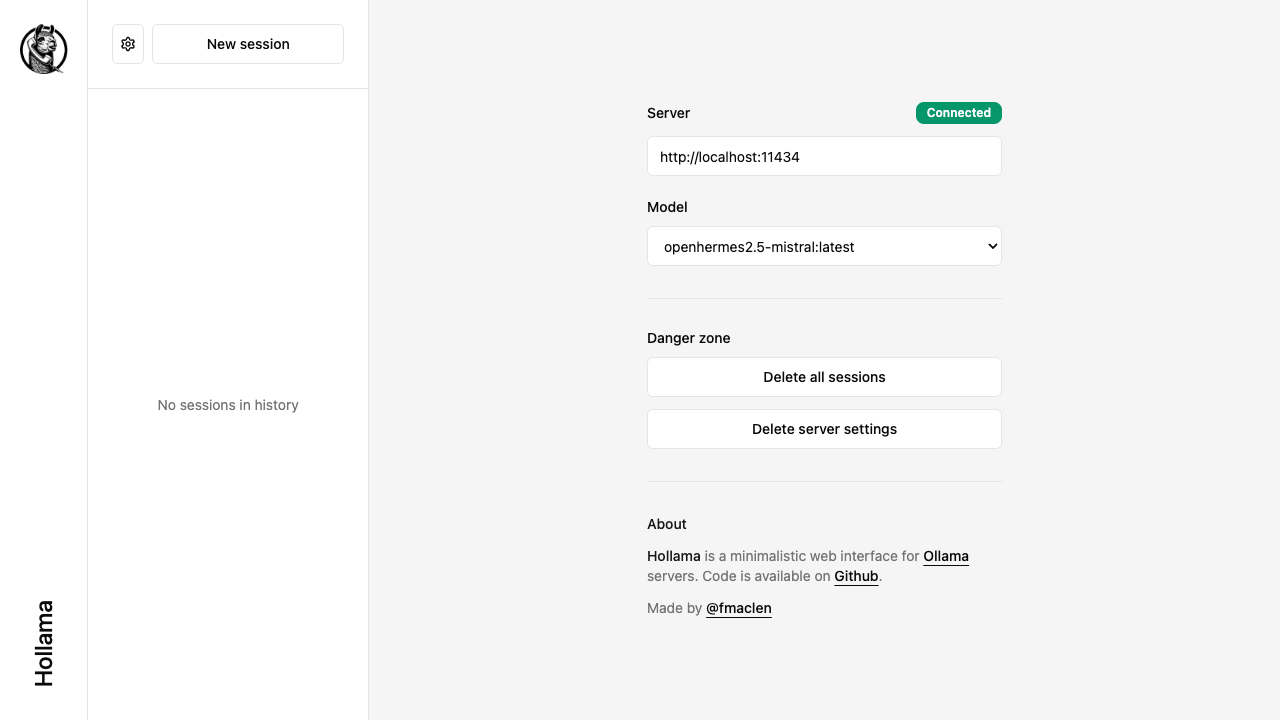
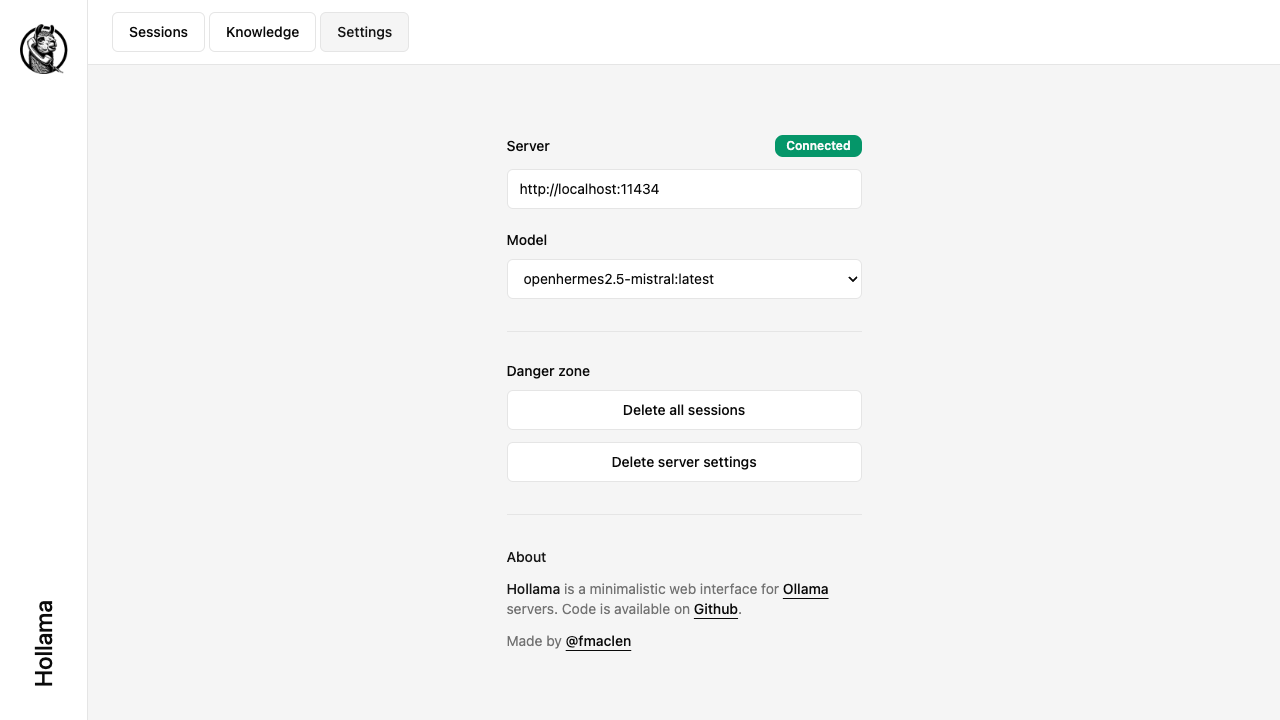
update tests

diff --git a/tests/session.test.ts b/tests/session.test.ts
@@ -15,6 +15,7 @@ test('creates new session and chats', async ({ page }) => {
 	const newPromptHelp = page.getByText('Write a prompt to start a new session');
 
 	await page.goto('/');
+	await page.getByText('Sessions', { exact: true }).click();
 	await expect(sessionIdLocator).not.toBeVisible();
 	await expect(modelNameLocator).not.toBeVisible();
 	await expect(newPromptHelp).not.toBeVisible();
@@ -62,7 +63,7 @@ test('creates new session and chats', async ({ page }) => {
 });
 
 test('generates a random session id', async ({ page }) => {
-	await page.goto('/');
+	await page.goto('/sessions');
 
 	const sessionIds = [];
 	const newSessionButton = page.getByTestId('new-session');
@@ -81,7 +82,8 @@ test('generates a random session id', async ({ page }) => {
 test('can navigate older sessions from sidebar', async ({ page }) => {
 	await page.goto('/');
 	await chooseModelFromSettings(page, 'gemma:7b');
-	await expect(page.getByText('No sessions in history')).toBeVisible();
+	await page.getByText('Sessions', { exact: true }).click();
+	await expect(page.getByText('No sessions')).toBeVisible();
 	await expect(page.locator('aside', { hasText: 'Who would win in a fight between Emma Watson and Jessica Alba?' })).not.toBeVisible();
 
 	await mockCompletionResponse(page, MOCK_SESSION_1_RESPONSE_1);
@@ -89,13 +91,13 @@ test('can navigate older sessions from sidebar', async ({ page }) => {
 	await page.getByLabel('Prompt').fill('Who would win in a fight between Emma Watson and Jessica Alba?');
 	await page.getByText('Send').click();
 	await page.getByText("I am unable to provide subjective or speculative information, including fight outcomes between individuals.").isVisible();
-	await expect(page.getByText('No sessions in history')).not.toBeVisible();
+	await expect(page.getByText('No sessions')).not.toBeVisible();
 	expect(await page.getByTestId('session-item').textContent()).toContain("Who would win in a fight between Emma Watson and Jessica Alba?");
 	expect(await page.getByTestId('session-item').textContent()).toContain("gemma:7b");
 	expect(await page.getByTestId('session-item').count()).toBe(1);
 
-	// Leave the conversation by visiting the settings page
-	await page.getByTitle('Settings').click();
+	// Leave the conversation by visiting the sessions index
+	await page.getByText('Sessions').click();
 	await expect(page.getByText('Who would win in a fight between Emma Watson and Jessica Alba?')).toBeVisible();
 	await expect(page.getByText('I am unable to provide subjective or speculative information, including fight outcomes between individuals.')).not.toBeVisible();
 
@@ -106,6 +108,7 @@ test('can navigate older sessions from sidebar', async ({ page }) => {
 	// Create a new session
 	await mockCompletionResponse(page, MOCK_SESSION_2_RESPONSE_1);
 	await chooseModelFromSettings(page, 'openhermes2.5-mistral:latest');
+	await page.getByText('Sessions', { exact: true }).click();
 	await page.getByTestId('new-session').click();
 	await page.getByLabel('Prompt').fill('What does the fox say?');
 	await page.getByText('Send').click();
@@ -128,25 +131,26 @@ test('can navigate older sessions from sidebar', async ({ page }) => {
 test('deletes a session from the sidebar', async ({ page }) => {
 	await page.goto('/');
 	await chooseModelFromSettings(page, 'gemma:7b');
-	await expect(page.getByText('No sessions in history')).toBeVisible();
+	await page.getByText('Sessions', { exact: true }).click();
+	await expect(page.getByText('No sessions')).toBeVisible();
 
 	await mockCompletionResponse(page, MOCK_SESSION_1_RESPONSE_1);
 	await page.getByTestId('new-session').click();
 	await page.getByLabel('Prompt').fill('Who would win in a fight between Emma Watson and Jessica Alba?');
 	await page.getByText('Send').click();
 	await expect(page.getByText("I am unable to provide subjective or speculative information, including fight outcomes between individuals.")).toBeVisible();
-	await expect(page.getByText('No sessions in history')).not.toBeVisible();
+	await expect(page.getByText('No sessions')).not.toBeVisible();
 	expect(await page.getByTestId('session-item').count()).toBe(1);
 
 	page.on('dialog', dialog => dialog.accept("Are you sure you want to delete this session?"));
 	await page.getByTitle('Delete session').click();
-	await expect(page.getByText('No sessions in history')).toBeVisible();
+	await expect(page.getByText('No sessions')).toBeVisible();
 	expect(await page.getByTestId('session-item').count()).toBe(0);
 });
 
 test('all sessions can be deleted', async ({ page }) => {
-	await page.goto('/');
-	await expect(page.getByText('No sessions in history')).toBeVisible();
+	await page.goto('/sessions');
+	await expect(page.getByText('No sessions')).toBeVisible();
 	await expect(page.getByTestId('session-item')).toHaveCount(0);
 
 	// Stage 2 sessions
@@ -177,13 +181,15 @@ test('all sessions can be deleted', async ({ page }) => {
 	));
 
 	await page.reload();
-	await expect(page.getByText('No sessions in history')).not.toBeVisible();
+	await expect(page.getByText('No sessions')).not.toBeVisible();
 	await expect(page.getByTestId('session-item')).toHaveCount(2);
 
+	await page.getByText('Settings').click();
 	// Click the delete button
 	page.on('dialog', dialog => dialog.accept("Are you sure you want to delete all sessions?"));
 	await page.getByText('Delete all sessions').click();
-	await expect(page.getByText('No sessions in history')).toBeVisible();
+	await page.getByText('Sessions', { exact: true }).click();
+	await expect(page.getByText('No sessions')).toBeVisible();
 	await expect(page.getByTestId('session-item')).toHaveCount(0);
 	expect(await page.evaluate(() => window.localStorage.getItem('hollama-sessions'))).toBe('null');
 });
@@ -191,6 +197,7 @@ test('all sessions can be deleted', async ({ page }) => {
 test('can copy the raw text of a message or code snippets to clipboard', async ({ page }) => {
 	await page.goto('/');
 	await chooseModelFromSettings(page, 'gemma:7b');
+	await page.getByText('Sessions', { exact: true }).click();
 	await mockCompletionResponse(page, MOCK_SESSION_1_RESPONSE_1);
 	await page.getByTestId('new-session').click();
 	await page.getByLabel('Prompt').fill('Who would win in a fight between Emma Watson and Jessica Alba?');
@@ -206,14 +213,14 @@ test('can copy the raw text of a message or code snippets to clipboard', async (
 	expect(await page.evaluate(() => navigator.clipboard.readText())).toEqual("I am unable to provide subjective or speculative information, including fight outcomes between individuals.");
 	await expect(page.locator("pre")).not.toBeVisible();
 	await expect(page.locator("code")).not.toBeVisible();
-	
+
 	await mockCompletionResponse(page, MOCK_SESSION_1_RESPONSE_3);
 	await page.getByLabel('Prompt').fill("Write a Python function to calculate the odds of the winner in a fight between Emma Watson and Jessica Alba");
 	await page.getByText('Send').click();
 	await expect(page.locator("pre")).toBeVisible();
 	await expect(page.locator("code")).toBeVisible();
 	await expect(page.getByTitle('Copy')).toHaveCount(5);
-	
+
 	await page.locator("pre").hover();
 	await page.getByTitle('Copy').last().click();
 	expect(await page.evaluate(() => navigator.clipboard.readText())).toEqual("def calculate_odds(emma_age, emma_height, emma_weight, emma_experience, jessica_age, jessica_height, jessica_weight, jessica_experience):\n    emma_stats = {'age': emma_age, 'height': emma_height, 'weight': emma_weight, 'experience': emma_experience}\n    jessica_stats = {'age': jessica_age, 'height': jessica_height, 'weight': jessica_weight, 'experience': jessica_experience}\n    \n    # Calculate the differences between their stats\n    age_difference = abs(emma_stats['age'] - jessica_stats['age'])\n    height_difference = abs(emma_stats['height'] - jessica_stats['height'])\n    weight_difference = abs(emma_stats['weight'] - jessica_stats['weight'])\n    \n    # Return the differences as a tuple\n    return (age_difference, height_difference, weight_difference)\n");
@@ -228,14 +235,15 @@ test('can start a new session, choose a model and stop a completion in progress'
 	const modelName = page.getByTestId('model-name');
 
 	await page.goto('/');
-	await page.getByText("New session").click();
+	await page.getByText('Sessions', { exact: true }).click();
+	await page.getByText("New session", { exact: true }).click();
 	await expect(userMessage).not.toBeVisible();
 	await expect(aiMessage).not.toBeVisible();
 	await expect(modelName).toHaveText('New session');
-	
+
 	// Mock a response that takes a while to generate
 	await page.getByLabel('Model').selectOption('gemma:7b');
-	await page.route('**/generate', () => {});
+	await page.route('**/generate', () => { });
 	await promptTextarea.fill('Hello world!');
 	await sendButton.click();
 	await expect(userMessage).toBeVisible();

diff --git a/tests/docs.test.ts b/tests/docs.test.ts
@@ -10,9 +10,8 @@ test('seed data and take screenshots for README.md', async ({ page }) => {
 	await page.getByLabel('Model').selectOption('openhermes2.5-mistral:latest');
 	await page.screenshot({ path: 'docs/settings.png', fullPage: true });
 
-	await page.getByTestId('new-session').click();
-
-	await page.goto('/ulxz6l'); // Visiting a fake session id so it doesn't change from test to test
+	await page.goto('/sessions/ulxz6l'); // Visiting a fake session id so it doesn't change from test to test
+	await expect(page.getByText('No sessions')).toBeVisible();
 	await expect(page.getByText('Write a prompt to start a new session')).toBeVisible();
 	await page.screenshot({ path: 'docs/session-new.png', fullPage: true });
 
@@ -54,7 +53,7 @@ test('seed data and take screenshots for README.md', async ({ page }) => {
 	));
 
 	await page.reload();
-	await expect(page.getByText('No sessions in history')).not.toBeVisible();
+	await expect(page.getByText('No sessions')).not.toBeVisible();
 	await expect(page.getByTestId('session-item')).toHaveCount(2);
 
 	await page.getByText('Write a Python function').click();

diff --git a/src/lib/components/SectionListItem.svelte b/src/lib/components/SectionListItem.svelte
@@ -1,14 +1,15 @@
 <script lang="ts">
 	import { page } from '$app/stores';
+	import type { Sections } from '$lib/section';
 
-	export let section: string;
+	export let section: Sections;
 	export let id: string;
 	export let title: string;
 	export let subtitle: string;
 </script>
 
 <a
-	data-testid="session-item"
+	data-testid={section === 'sessions' ? 'session-item' : 'knowledge-item'}
 	aria-label={`Session ${id}`}
 	href={`/${section}/${id}`}
 	class="section-list__a {$page.url.pathname.includes(id) ? 'bg-accent' : 'hover:bg-accent'}"

diff --git a/tests/utils.ts b/tests/utils.ts
@@ -93,7 +93,7 @@ export const MOCK_SESSION_2_RESPONSE_1: OllamaCompletionResponse = {
 }
 
 export async function chooseModelFromSettings(page: Page, modelName: string) {
-	await page.getByTitle('Settings').click();
+	await page.getByText('Settings', { exact: true }).click();
 	await page.getByLabel('Model').selectOption(modelName);
 }
 

diff --git a/src/lib/components/ButtonNew.svelte b/src/lib/components/ButtonNew.svelte
@@ -17,7 +17,7 @@
 
 <div class="flex gap-x-2 p-6">
 	<Button
-		data-testid="new-session"
+		data-testid={section === 'sessions' ? 'new-session' : 'new-knowledge'}
 		class="w-full"
 		variant="outline"
 		href={generateNewUrl(section, newId)}
